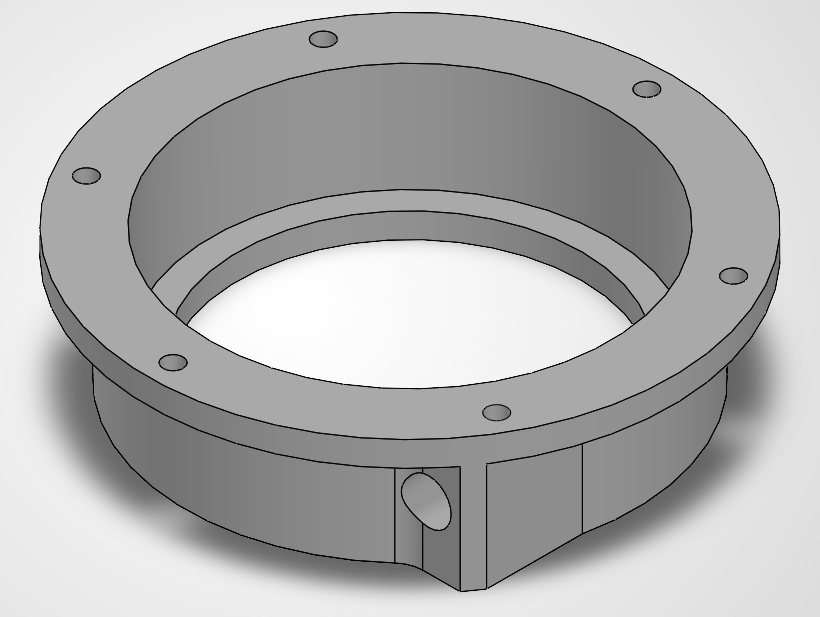
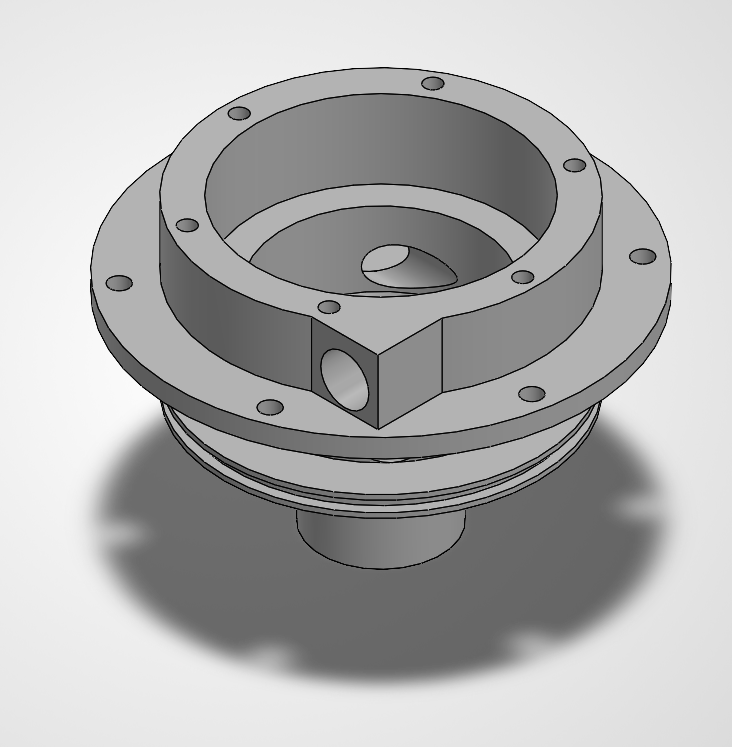
Add files via upload

diff --git a/content.js b/content.js
@@ -1323,8 +1323,8 @@ window.PORTFOLIO.beyond = {
   "layout": "coaxial",
   "visible": true,
   "summary": "Coaxial swirl injector development for a NOX/paraffin hybrid lander, including SolidWorks modeling and ANSYS CFD support informed by UCSB RPL’s published design.",
-  "cover": "assets/coaxial-swirl-assembly.png",
-  "coverAlt": "CAD view of the coaxial swirl injector model",
+  "cover": "assets/coaxial-swirl-outer-chamber.png",
+  "coverAlt": "My SolidWorks model of the outer swirl chamber",
   "text": [
     "In Propulsive Landers, we investigated a coaxial swirl injector design for our NOX/paraffin hybrid propulsion system. We used UCSB RPL’s coaxial swirl injector work, including Andrew Furst’s project and their team’s design packet, as references for our design, modeling, and analysis, adjusting it for our hybrid lander's vehicle constraints.",
     "I modeled the top cap, outer swirl chamber, and outer casing in SolidWorks and assisted with CFD work in ANSYS. Our preliminary analysis showed an improvement in flow behavior and atomization potential compared to our prior showerhead design, supporting further investigation and testing of this concept. We proposed investigating showerhead rings for wall film cooling and impinging elements to improve mixing based on the simulation findings.",
@@ -1333,31 +1333,45 @@ window.PORTFOLIO.beyond = {
   "media": [
     {
       "type": "image",
-      "src": "assets/coaxial-swirl-assembly.png",
+      "src": "assets/coaxial-swirl-reference-assembly.png",
       "group": "hero",
-      "alt": "CAD view of the injector model",
-      "caption": "CAD view of the injector model."
-    },
-    {
-      "type": "image",
-      "src": "assets/coaxial-swirl-top-cap.png",
-      "group": "parts",
-      "alt": "SolidWorks model of the top cap",
-      "caption": "Top cap modeled in SolidWorks."
+      "alt": "UCSB RPL reference injector assembly cutaway",
+      "caption": "Full-assembly cutaway from the UCSB RPL reference design. Credit: Andrew Furst / UCSB RPL (LOX/methane reference project)."
     },
     {
       "type": "image",
       "src": "assets/coaxial-swirl-outer-chamber.png",
       "group": "parts",
-      "alt": "SolidWorks model of the outer swirl chamber",
-      "caption": "Outer swirl chamber modeled in SolidWorks."
+      "alt": "Outer swirl chamber modeled in SolidWorks",
+      "caption": "My SolidWorks model of the outer swirl chamber."
     },
     {
       "type": "image",
-      "src": "assets/coaxial-swirl-profile.png",
+      "src": "assets/coaxial-swirl-top-cap-side.png",
       "group": "parts",
-      "alt": "Side profile of the injector CAD model",
-      "caption": "Side view of the CAD model."
+      "alt": "Side view of the top cap modeled in SolidWorks",
+      "caption": "My SolidWorks model of the top cap — side view."
+    },
+    {
+      "type": "image",
+      "src": "assets/coaxial-swirl-top-cap.png",
+      "group": "parts",
+      "alt": "Isometric view of the top cap modeled in SolidWorks",
+      "caption": "My SolidWorks model of the top cap — isometric view."
+    },
+    {
+      "type": "image",
+      "src": "assets/coaxial-swirl-outer-casing.png",
+      "group": "parts",
+      "alt": "Outer casing modeled in SolidWorks",
+      "caption": "My SolidWorks model of the outer casing."
+    },
+    {
+      "type": "image",
+      "src": "assets/coaxial-swirl-reference-flow.png",
+      "group": "parts",
+      "alt": "Flow visualization from the UCSB RPL reference project",
+      "caption": "Reference flow model from Andrew Furst / UCSB RPL’s original LOX/methane injector project."
     }
   ],
   "links": [

diff --git a/styles.css b/styles.css
@@ -1804,3 +1804,13 @@ body[data-page="projects"] .page-intro p {
   .coaxial-parts { grid-template-columns:minmax(0,1fr); }
   .coaxial-parts img { height:auto; max-height:360px; }
 }
+
+
+/* Corrected injector gallery: four component views, then the credited flow reference. */
+.coaxial-gallery .coaxial-parts { grid-template-columns:repeat(2,minmax(0,1fr)); }
+.coaxial-parts > figure:has(img[src$="coaxial-swirl-reference-flow.png"]) { grid-column:1 / -1; }
+.coaxial-parts img[src$="coaxial-swirl-reference-flow.png"] { height:360px; max-height:none; object-fit:contain; }
+@media(max-width:760px) {
+  .coaxial-gallery .coaxial-parts { grid-template-columns:minmax(0,1fr); }
+  .coaxial-parts img[src$="coaxial-swirl-reference-flow.png"] { height:auto; max-height:420px; }
+}
